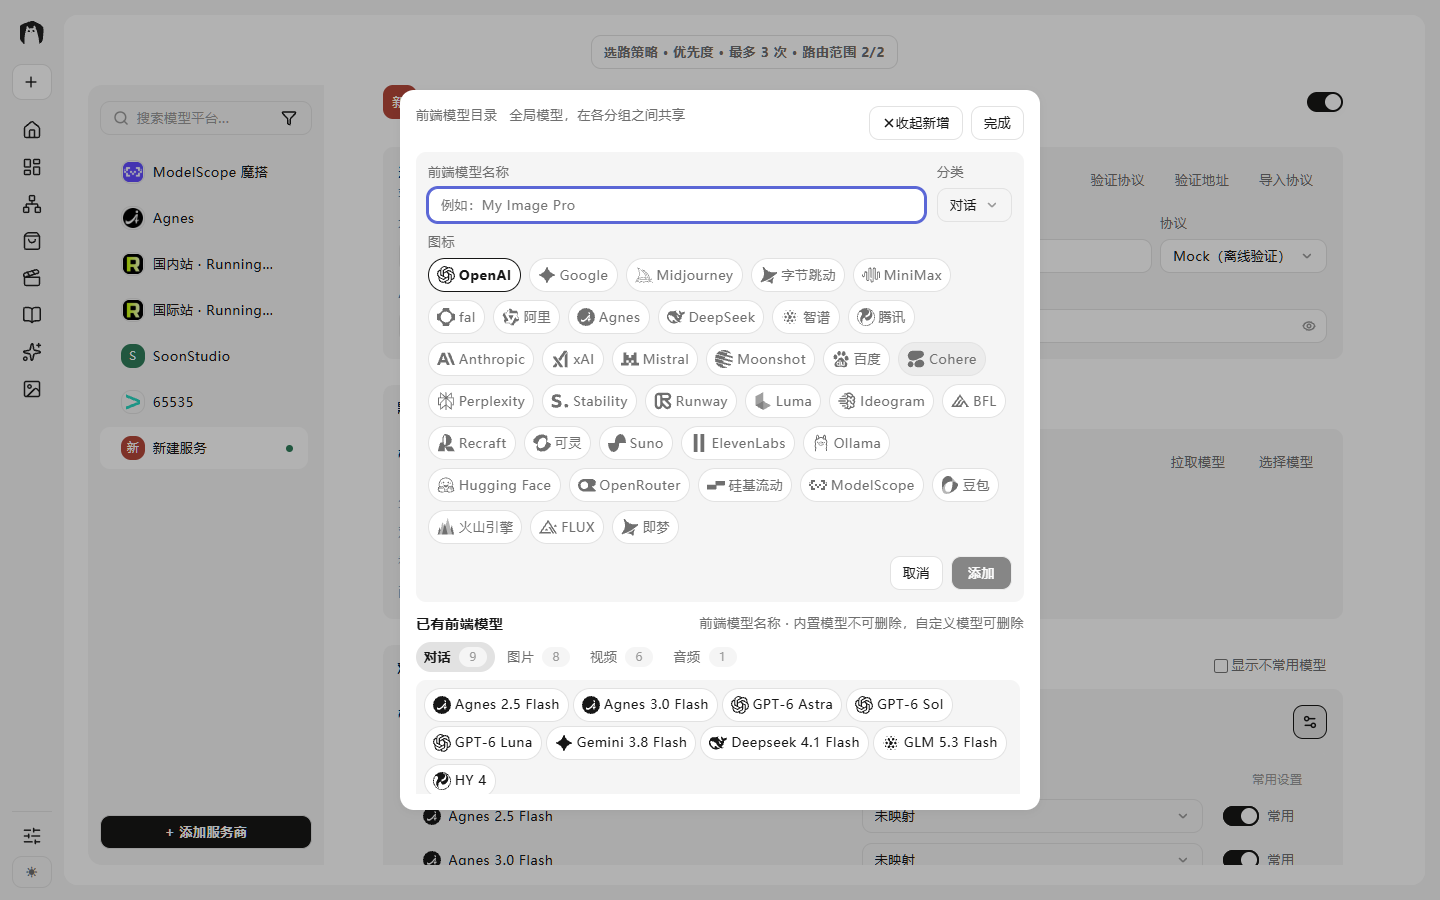
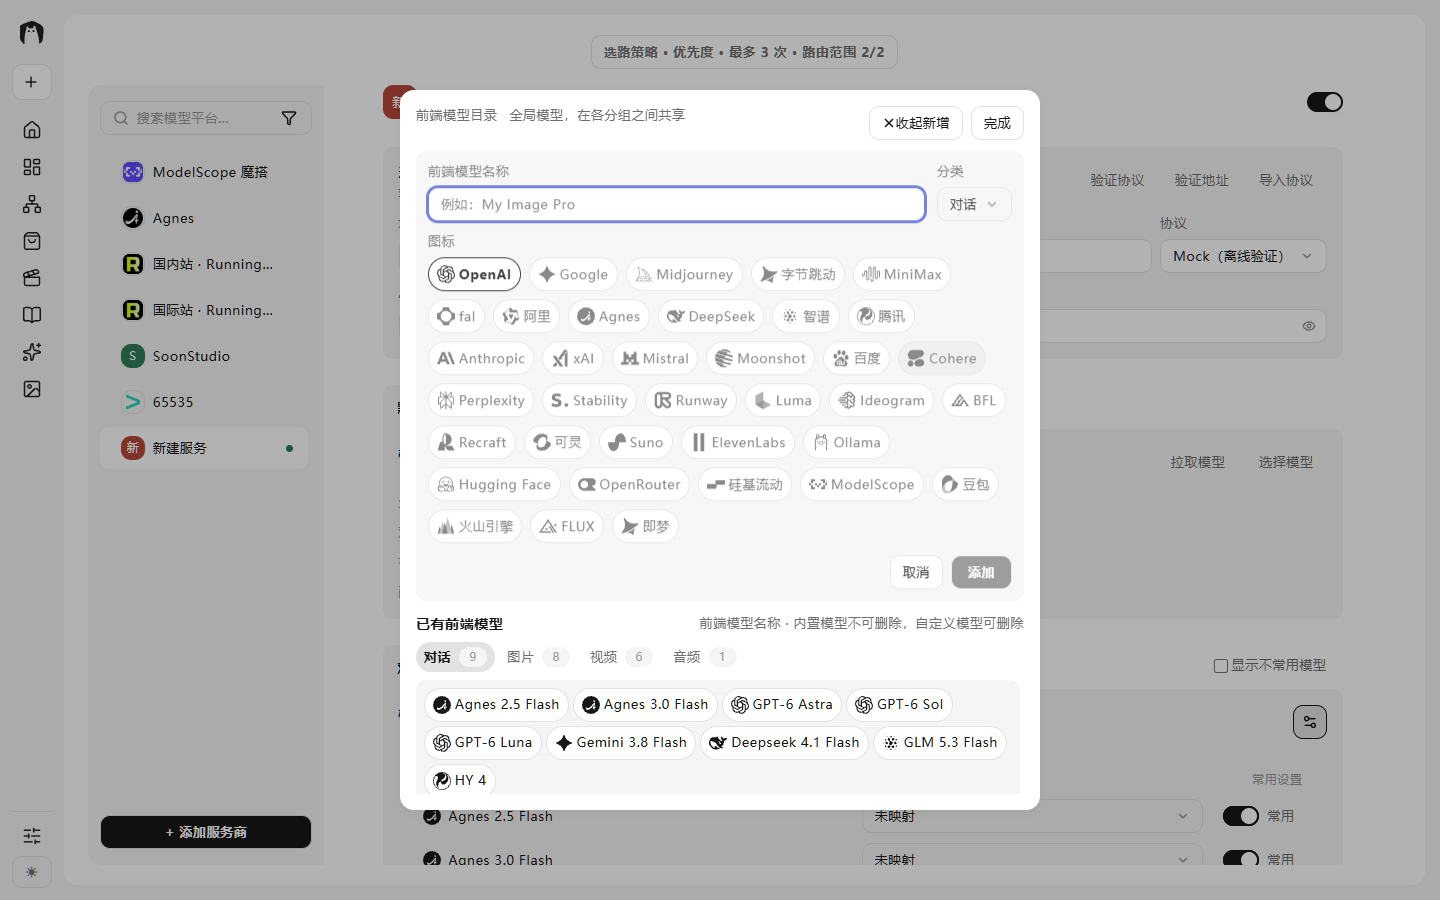
fix-model-catalog-animation-geometry

diff --git a/src/pages/SettingsPage/SettingsModelBinding.module.css b/src/pages/SettingsPage/SettingsModelBinding.module.css
@@ -4,6 +4,7 @@
   z-index: 80;
   display: grid;
   place-items: center;
+  animation: modelManagerFadeIn 160ms ease-out both;
 }
 
 .modelManagerBackdrop {
@@ -27,6 +28,7 @@
   border-radius: var(--radius-node);
   background: var(--bg-surface);
   box-shadow: var(--shadow-float);
+  animation: modelManagerPanelIn 200ms cubic-bezier(0.22, 1, 0.36, 1) both;
 }
 
 .modelManagerHead {
@@ -39,6 +41,7 @@
 .modelManagerForm {
   padding: 0;
   background: transparent;
+  animation: modelManagerFormIn 180ms cubic-bezier(0.22, 1, 0.36, 1) both;
 }
 
 .modelAddFormHead {
@@ -170,5 +173,40 @@
   .globalCommonButton {
     grid-column: 2;
     justify-self: end;
+  }
+}
+
+@keyframes modelManagerFadeIn {
+  from { opacity: 0; }
+  to { opacity: 1; }
+}
+
+@keyframes modelManagerPanelIn {
+  from {
+    opacity: 0;
+    transform: translateY(8px) scale(0.985);
+  }
+  to {
+    opacity: 1;
+    transform: translateY(0) scale(1);
+  }
+}
+
+@keyframes modelManagerFormIn {
+  from {
+    opacity: 0;
+    transform: translateY(-4px);
+  }
+  to {
+    opacity: 1;
+    transform: translateY(0);
+  }
+}
+
+@media (prefers-reduced-motion: reduce) {
+  .modelManagerLayer,
+  .modelManagerPanel,
+  .modelManagerForm {
+    animation: none;
   }
 }

diff --git a/src/pages/SettingsPage/SettingsGlobalModelManager.module.css b/src/pages/SettingsPage/SettingsGlobalModelManager.module.css
@@ -70,6 +70,7 @@
   padding: var(--space-2);
   border-radius: var(--radius-control);
   background: var(--bg-subtle);
+  animation: globalModelGroupIn 160ms cubic-bezier(0.22, 1, 0.36, 1) both;
 }
 
 .globalModelStack {
@@ -95,6 +96,10 @@
 
 .globalModelChip:hover {
   background: var(--bg-hover);
+}
+
+.globalModelChipRemovable {
+  padding-right: 3px;
 }
 
 .globalModelIdentity {
@@ -153,14 +158,14 @@
   align-items: center;
   justify-content: center;
   border: 0;
-  border-radius: var(--radius-control);
-  background: transparent;
+  border-radius: 50%;
+  background: var(--bg-subtle);
   color: var(--text-3);
   cursor: pointer;
 }
 
 .globalModelDelete:hover {
-  background: var(--bg-surface);
+  background: var(--bg-hover);
   color: var(--danger);
 }
 
@@ -175,4 +180,21 @@
   color: var(--text-3);
   font-size: var(--fs-label);
   line-height: 1.5;
+}
+
+@keyframes globalModelGroupIn {
+  from {
+    opacity: 0;
+    transform: translateY(4px);
+  }
+  to {
+    opacity: 1;
+    transform: translateY(0);
+  }
+}
+
+@media (prefers-reduced-motion: reduce) {
+  .globalModelGroup {
+    animation: none;
+  }
 }

diff --git a/src/pages/SettingsPage/settingsPage/useChannelMappingDraft.test.ts b/src/pages/SettingsPage/settingsPage/useChannelMappingDraft.test.ts
@@ -53,7 +53,7 @@ describe('模型映射卡的草稿态', () => {
     expect(channels.globalModelsOf).toHaveBeenCalledWith('audio', true)
   })
 
-  it('新增前端模型按表单当前分类保存，成功后清空名称并收起新增表单', async () => {
+  it('新增前端模型按表单当前分类保存，成功后只清空名称并保留表单', async () => {
     const { draft, rerender, channels } = renderDraft()
     act(() => {
       draft.current.setNewModelName('6.1')
@@ -73,7 +73,7 @@ describe('模型映射卡的草稿态', () => {
     })
     expect(draft.current.newModelName).toBe('')
     expect(draft.current.modelAddOpen).toBe(true)
-    expect(draft.current.modelFormOpen).toBe(false)
+    expect(draft.current.modelFormOpen).toBe(true)
   })
 
   it('关闭目录时收起新增表单，避免下次打开残留', () => {

diff --git a/src/pages/SettingsPage/settingsPage/SettingsGlobalModelManager.tsx b/src/pages/SettingsPage/settingsPage/SettingsGlobalModelManager.tsx
@@ -341,7 +341,11 @@ export function SettingsGlobalModelManager({
                       return (
                         <div
                           key={model.id}
-                          className={styles.globalModelChip}
+                          className={
+                            custom
+                              ? `${styles.globalModelChip} ${styles.globalModelChipRemovable}`
+                              : styles.globalModelChip
+                          }
                           data-global-model-row={model.id}
                           data-global-model-kind={custom ? 'custom' : 'builtin'}
                         >

diff --git a/src/pages/SettingsPage/settingsPage/useChannelMappingDraft.ts b/src/pages/SettingsPage/settingsPage/useChannelMappingDraft.ts
@@ -61,7 +61,6 @@ export function useChannelMappingDraft(source: ChannelMappingDraftSource) {
         vendor: newModelVendor,
       })
       setNewModelName('')
-      setModelFormOpen(false)
     } catch (error) {
       alertMessage(errorMessage(error))
     }

diff --git a/ledger/按批记录-2026-11-c-b.md b/ledger/按批记录-2026-11-c-b.md
@@ -317,8 +317,8 @@
 | --- | --- | --- |
 | 1203 | ✅ 已实现并完成四组合验证 | `review/2026-11-25-1203-model-mapping-catalog/` |
 
-- **范围：涉及 UI。** 用户确认采用方案 A：齿轮弹窗升级为完整前端模型目录。新增区默认收起、按需展开；下面按对话 / 图片 / 视频 / 音频切换，只渲染当前分类；模型使用与上方图标选项一致的圆形胶囊（图标 + 名称，左右内边距一致），自定义模型在胶囊内部右侧显示 `×`；双击自定义模型名称原位重命名。
+- **范围：涉及 UI。** 用户确认采用方案 A：齿轮弹窗升级为完整前端模型目录。新增区默认收起、按需展开；下面按对话 / 图片 / 视频 / 音频切换，只渲染当前分类；模型使用与上方图标选项一致的圆形胶囊（图标 + 名称，左右内边距一致），自定义模型的圆形删除按钮在胶囊内部右侧且与外层右端圆心同心；双击自定义模型名称原位重命名。添加成功后表单保持展开，由用户手动收起。管理弹窗、新增区与分类切换都有短过渡并支持减少动效。
 - **稳定身份**：`PresetModel.id` 继续作为节点、渠道映射键和路由使用的稳定逻辑名；新增可选 `label` 作为前端显示名。重命名只改 `label`，不改 `id`，旧节点和既有渠道映射不受影响。
 - **删除边界**：`removeGlobalModel()` 仍只允许删除自定义模型；内置模型只显示为不可删除胶囊，常用 / 不常用仍只在映射行操作，不在目录内重复提供开关。
 - **视觉边界**：目录外壳去掉描边，仅保留卡面与阴影；分类切换使用胶囊 tab；分类内容使用无描边浅底分区。
-- **验证**：`G1203` 在 `1440×900 / 1024×700 × 明暗` 四组合均 **10/10**，覆盖分类切换只显示一类、胶囊内 X 位置、双击重命名、稳定 ID 不变与删除；`G74` **64/64**，覆盖新增、映射同步与内置模型保护。全量 Vitest **6694 passed / 1 skipped**，`npm run check` 与生产构建通过。截图与 smoke 日志见证据目录。
+- **验证**：`G1203` 在 `1440×900 / 1024×700 × 明暗` 四组合均 **12/12**，覆盖分类切换只显示一类、X 圆形与胶囊右端同心、动画名称、新增后表单保持、双击重命名、稳定 ID 不变与删除；`G74` **64/64**，覆盖新增、映射同步与内置模型保护。全量 Vitest **6694 passed / 1 skipped**，`npm run check` 与生产构建通过。截图与 smoke 日志见证据目录。

diff --git a/review/2026-11-25-1203-model-mapping-catalog/result.md b/review/2026-11-25-1203-model-mapping-catalog/result.md
@@ -6,10 +6,12 @@
 - 新增区默认收起，点「新增模型」展开；展开后提供前端模型名称、分类、图标和添加。
 - 已有模型按「对话 / 图片 / 视频 / 音频」切换，只渲染当前分类。
 - 每个模型是与上方图标选项一致的胶囊：厂商图标 + 前端名称。
-- 自定义模型在胶囊内部右侧显示 `×`；内置模型没有删除入口。
+- 自定义模型在胶囊内部右侧显示圆形 `×` 按钮，圆心与外层胶囊右端圆心同心；内置模型没有删除入口。
 - 双击自定义模型名称进入原位编辑，Enter / 失焦提交，Esc 取消。
 - 常用 / 不常用仍只在映射行操作，目录不重复提供开关。
 - 目录外壳和分类内容区不再使用描边，只保留背景与阴影层级。
+- 管理弹窗、新增区展开和分类切换都有短过渡；减少动效时全部关闭。
+- 新增成功后只清空名称并保留表单，由用户手动收起或关闭。
 
 ## 稳定身份
 
@@ -20,7 +22,7 @@
 
 ## 验证
 
-- `G1203` 四组合 `1440×900 / 1024×700 × 明暗`：每组 **10/10**。
+- `G1203` 四组合 `1440×900 / 1024×700 × 明暗`：每组 **12/12**。
 - `G74`：**64/64**，覆盖新增、分类、内置保护、重命名同步和删除。
 - 全量 Vitest：**6694 passed / 1 skipped**。
 - `npm run check` 与生产构建通过。
@@ -28,8 +30,8 @@
 ## 证据
 
 - `after/`：四组合下的收起目录、展开新增区和自定义胶囊截图。
-- `smoke/2026-11-25T10-46-48/`：1440×900 浅色 `G1203`。
-- `smoke/2026-11-25T10-49-20/`：`G74`。
-- `smoke/2026-11-25T10-51-27/`：1440×900 深色 `G1203`。
-- `smoke/2026-11-25T10-53-15/`：1024×700 浅色 `G1203`。
-- `smoke/2026-11-25T10-54-41/`：1024×700 深色 `G1203`。
+- `smoke/2026-11-25T11-38-12/`：1440×900 浅色 `G1203`。
+- `smoke/2026-11-25T11-39-39/`：`G74`。
+- `smoke/2026-11-25T11-41-28/`：1440×900 深色 `G1203`。
+- `smoke/2026-11-25T11-43-17/`：1024×700 浅色 `G1203`。
+- `smoke/2026-11-25T11-44-41/`：1024×700 深色 `G1203`。

diff --git a/.workbuddy/memory/archive/2026-11-d.md b/.workbuddy/memory/archive/2026-11-d.md
@@ -342,6 +342,6 @@
 ### 2026-11-25 · #1203 前端模型目录管理
 
 - **显示名和稳定身份必须拆开**：自定义模型重命名只改 `PresetModel.label`，`id` 继续承载节点、渠道映射键和路由。直接改 `id` 会让旧节点、旧映射键和别名解析一起漂移。
-- **目录只负责目录**：新增区默认收起、按需展开；已有模型按分类 tab 切换，只显示当前分类。模型胶囊与新增区的图标选项同一形态且左右内边距一致，自定义模型把 `×` 放在胶囊内部右侧；双击名称原位改名。常用 / 不常用仍只在映射行提供，不在目录重复。
+- **目录只负责目录**：新增区默认收起、按需展开且添加成功后保持展开，等用户手动关闭；已有模型按分类 tab 切换，只显示当前分类。模型胶囊与新增区的图标选项同一形态且左右内边距一致，自定义模型的圆形 `×` 与外层胶囊右端圆心同心；双击名称原位改名。常用 / 不常用仍只在映射行提供，不在目录重复。管理弹窗、新增区和分类切换共用短过渡，`prefers-reduced-motion` 下关闭。
 - **内置模型不伪装成可删除数据**：`removeGlobalModel()` 只删除 `customModels`；内置模型保留，可在外层映射行设为不常用。
 - **验收口径**：G1203 四组合均 **10/10**，真实测到分类切换、胶囊几何、X 居中、双击改名和删除；G74 **64/64**，改名后映射区显示名同步且映射键仍用稳定 ID。

diff --git a/docs/product/07-渠道配置与技能库.md b/docs/product/07-渠道配置与技能库.md
@@ -395,13 +395,14 @@
 
 | 项 | 口径 |
 | --- | --- |
-| 新增区 | 默认收起，点“新增模型”展开；填写前端模型名称、分类和图标后添加 |
+| 新增区 | 默认收起，点“新增模型”展开；填写前端模型名称、分类和图标后添加，添加成功后保持展开，由用户手动收起 |
 | 已有模型 | 用对话 / 图片 / 视频 / 音频分类 tab 切换，一次只显示当前分类 |
-| 胶囊 | 与新增区的厂商选项同形态：图标 + 前端名称；自定义模型把删除 `×` 放在胶囊内部右侧 |
+| 胶囊 | 与新增区的厂商选项同形态：图标 + 前端名称；自定义模型的圆形删除 `×` 位于胶囊内部右侧，并与外层胶囊右端圆心同心 |
 | 重命名 | 自定义模型双击名称原位编辑；Enter / 失焦提交，Esc 取消。内置模型不可改名 |
 | 稳定身份 | `id` 继续用于节点、`modelMap` 键和路由；`label` 只用于前端显示，改名不迁移旧数据 |
 | 常用状态 | 仍只由映射行提供；目录不重复同一开关 |
 | 删除边界 | 只删除自定义前端模型；内置模型保留，可在映射行设为不常用 |
+| 动效 | 管理弹窗、新增区展开和分类切换使用短过渡；`prefers-reduced-motion` 下关闭 |
 
 #### 选路策略是全局的（用户 2026-09-29 第 12 轮）
 

diff --git a/docs/arch/00-变更记录-2026-11-3.md b/docs/arch/00-变更记录-2026-11-3.md
@@ -151,7 +151,8 @@
 > FLIP、目标框稳定性、遮罩和退场仍由灯箱控制器统一拥有。未来增加全新来源时只能在 `lightboxOpen.ts`
 > 增加适配器，页面 / 面板不得直接调用 `store.openLightbox()`，该约束由生产源码扫描测试看住。
 
-> **2026-11-25 全局前端模型目录（对账 #1203）**：前端模型新增区默认收起、按需展开；已有模型按分类切换，只渲染当前分类。
+> **2026-11-25 全局前端模型目录（对账 #1203）**：前端模型新增区默认收起、按需展开，添加成功后保持展开；已有模型按分类切换，只渲染当前分类。
 > `PresetModel.id` 是节点、映射键和路由使用的稳定身份，自定义模型重命名只更新 `label`，不得改 `id`。
-> 模型胶囊复用图标 + 名称形态，自定义模型的删除 `×` 位于胶囊内部；内置模型只展示、不删除。
+> 模型胶囊复用图标 + 名称形态，自定义模型的圆形删除 `×` 与外层胶囊右端圆心同心；内置模型只展示、不删除。
+> 管理弹窗、新增区和分类切换使用统一短过渡，减少动效时关闭。
 > 常用 / 不常用仍只属于映射行，目录不再复制同一状态开关。
